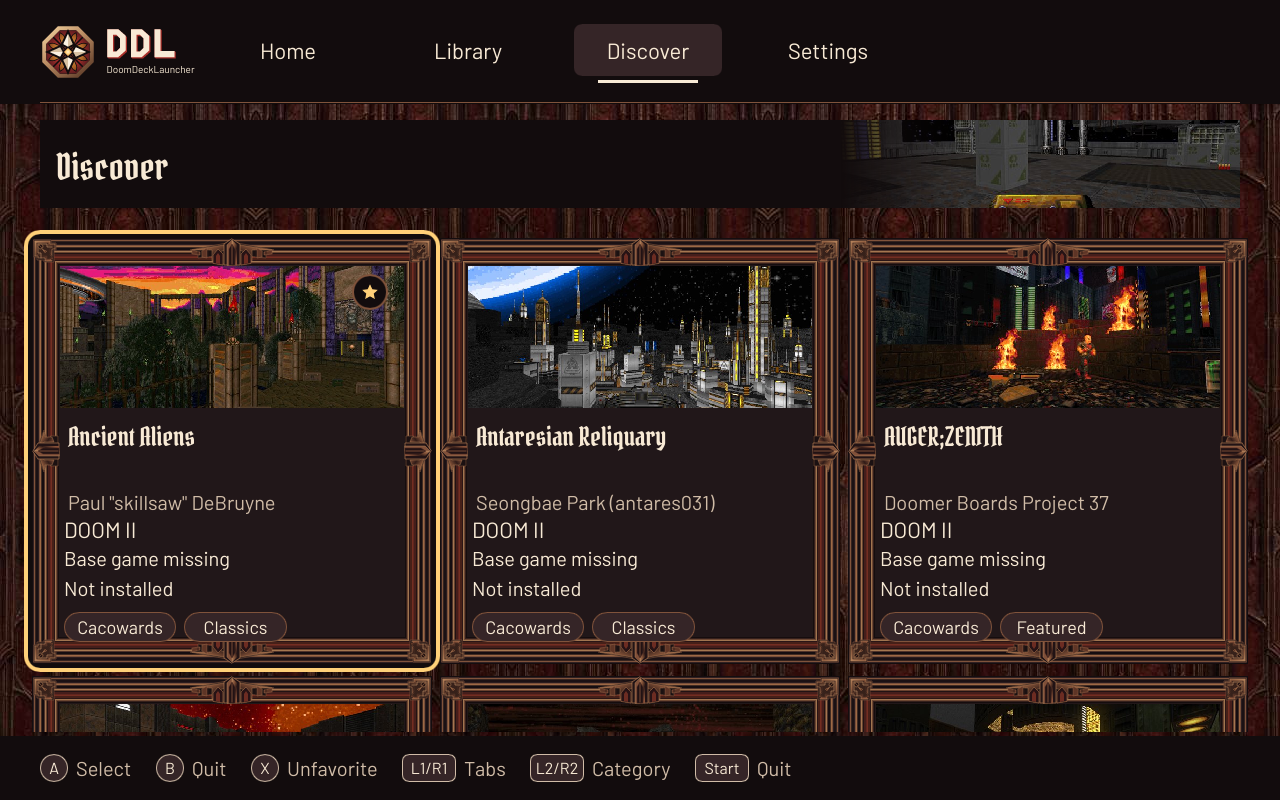
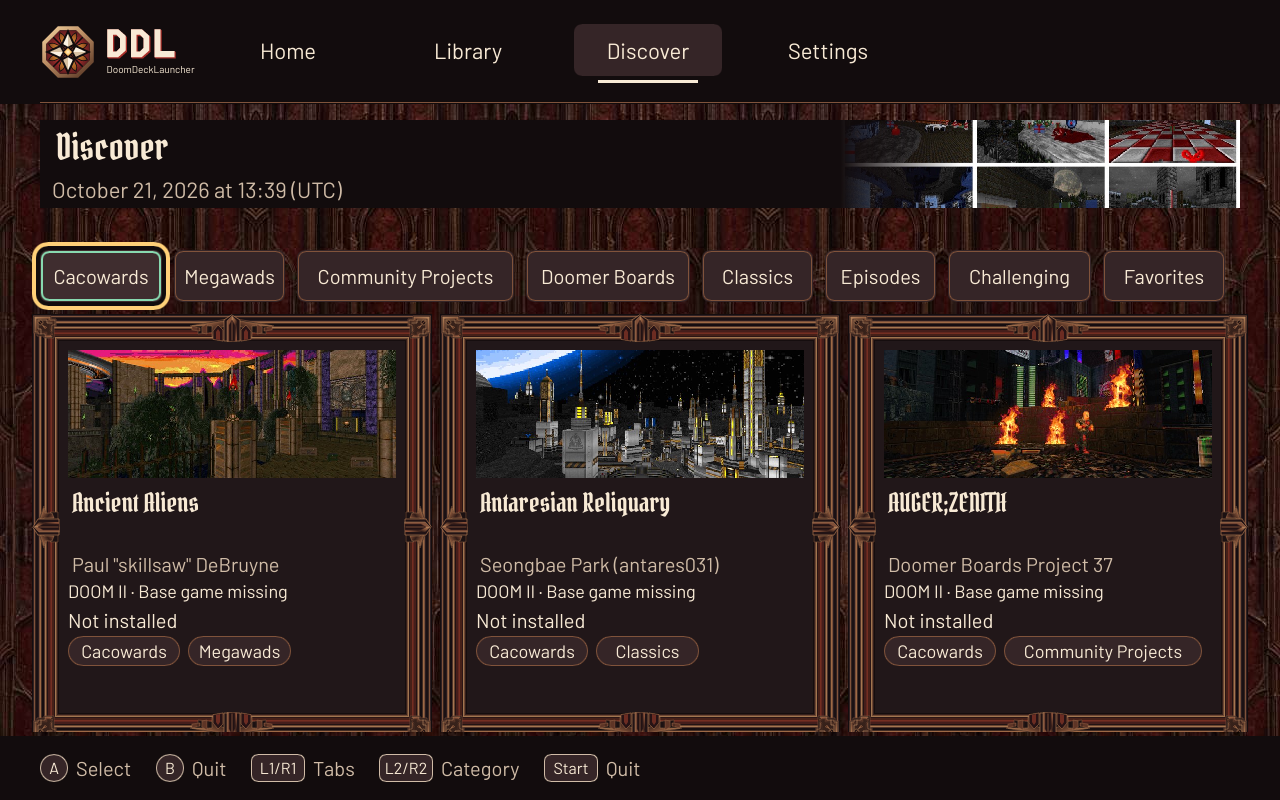
Refresh the shared screenshots and report the final layout

Changed region(s): [[0.0, 0.125, 1.0, 1.0], [0.0312, 0.1562, 0.2812, 0.25], [0.9375, 0.625, 0.9688, 0.6875]]

diff --git a/docs/reports/074-card-padding.md b/docs/reports/074-card-padding.md
@@ -18,8 +18,8 @@ instead of touching the 20 px ornamental frame:
 
 Game and readiness are joined with the same `·` separator the Home screen already
 uses; the information is unchanged and the line is 18 px so the longest label
-(`Ultimate DOOM · Base game missing`) still fits instead of eliding. No card,
-grid, focus-ring, controller-target or sorting behaviour changed.
+(`Ultimate DOOM · Base game missing`) still fits instead of eliding. No mapset
+card, grid, focus-ring, controller-target or sorting behaviour changed.
 
 The bug this fixes is visible in the before render: a Doomer Boards recipe shows
 two wide chips, so the second row was drawn at `y+488…518` — past the card's
@@ -39,7 +39,7 @@ so the full game name wraps instead of eliding:
 | --- | --- | --- |
 | Card | 282×84 at `y=152` | 282×108 at `y=148` |
 | Art | `x+10, y+164`, 96×60 | `x+24, y+24`, 80×60 (4:3, inside the frame) |
-| Title | `x+116, y+162`, 156×64; one line at this height | `x+112, y+24`, 146×60; two lines, full names |
+| Title | `x+116, y+162`, 156×64; drawn over the top frame | `x+112, y+24`, 146×60; two lines, full names |
 | Section heading | `y=252` | `y=280`, clear of the focused outline |
 | First mapset row | shifted `+202` | shifted `+226` |
 
@@ -52,8 +52,8 @@ outline still extends 16 px outside the card; the first content is 24 px in.
 Discover's existing header status line (the small muted line under the heading)
 now shows the effective catalog's source date, built from
 `snapshot.catalog.serial` with `ddl_core::catalog::serial_datetime`. The format
-is exactly `October 21, 2026 at 13:39 (UTC)`. Serial `0` or an unparseable value
-shows `Catalog date unavailable`; the line never substitutes today's date. It is
+is exactly `October 21, 2026 at 13:39 (UTC)`. Serial `0` (unknown) shows
+`Catalog date unavailable`; the line never substitutes today's date. It is
 recomputed on every sync, so a newer active catalog updates it without moving
 the category strip or grid. The heading keeps its place and moves up 20 px only
 as it already does whenever a status line is present; card space is unchanged.

diff --git a/docs/reports/076-sigil-edition-copy.md b/docs/reports/076-sigil-edition-copy.md
@@ -44,15 +44,13 @@ slot.
 
 ## Verification
 
-- `catalog::tests::sigil_editions_use_plain_names_and_keep_filenames` (new,
-  `ddl-core`): asserts each plain label and the normal/COMPAT wording, rejects
-  `REG`/`E3` in labels, keeps both exact filenames in the obtain notes, and
-  re-asserts the replacement/`requires` fields and both load orders.
 - `headless::journeys::sigil_editions_name_the_normal_and_compat_editions`
   (new): renders SIGIL Setup with advanced options and an imported paid
   soundtrack, asserts the four labels are fitted and stay at or above the 20 px
   floor within the 30 px row, captures the options and the import sheet, and
-  checks the sheet actions.
+  checks the sheet actions. This is the meaningful end-to-end check; the
+  intermediate core copy test was removed because it only re-read the TOML
+  fields already exercised here and in the recipe parser tests.
 - `DDL_TITLE_RECIPE=sigil title_fit_setup_and_components_first`: production
   fitter pixel audit of every SIGIL screen and component row; passes.
 - `cargo test -p ddl-core catalog::`: 107 passed.
@@ -61,8 +59,7 @@ slot.
 
 ## Limits
 
-Physical Deck legibility is owner validation. The five shared screenshots were
-not regenerated: spec 074 R3 and the coordinator ask for one final refresh after
-the integrated catalog and any further visual changes, with Discover at scroll
-top showing the category strip. No visible window was opened and no screen was
-captured. No push, tag, release or coordinator-document change was made.
+Physical Deck legibility is owner validation. The five shared screenshots are
+owned by the final 074/077 refresh; this copy-only change does not alter any of
+their captured states. No visible window was opened and no screen was captured.
+No push, tag, release or coordinator-document change was made.
